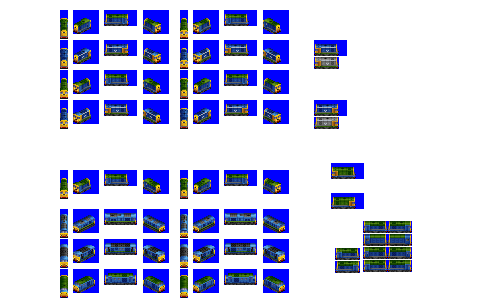
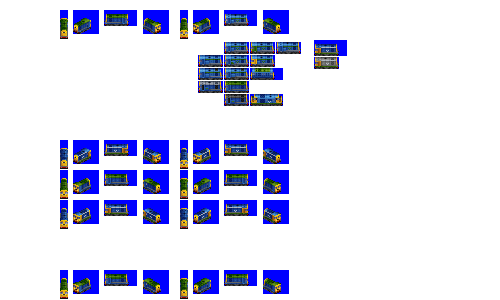
Change: WIP on Marconi sprites and salt hoppers

diff --git a/src/vehicles/salt_hopper_cars.py b/src/vehicles/salt_hopper_cars.py
@@ -7,7 +7,7 @@ def main():
     consist = HopperCarSaltConsist(
         roster_id="pony",
         base_numeric_id=6780,
-        gen=2,
+        gen=1,
         subtype="A",
         sprites_complete=False,
     )
